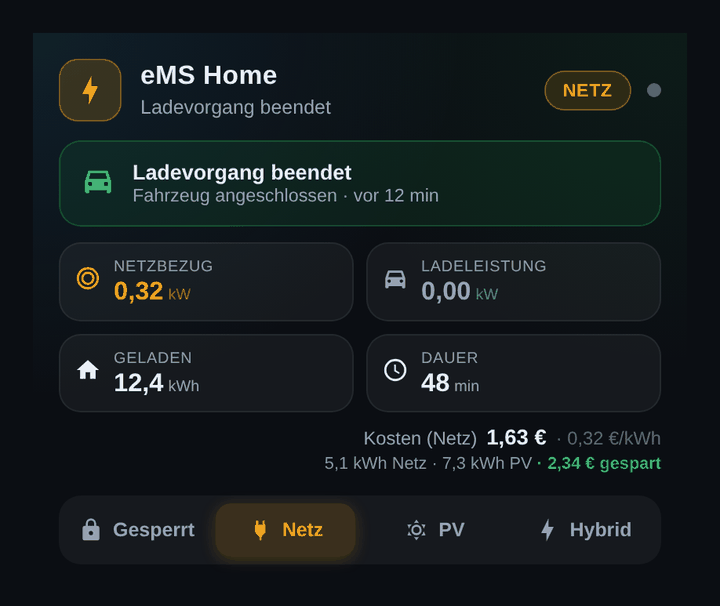
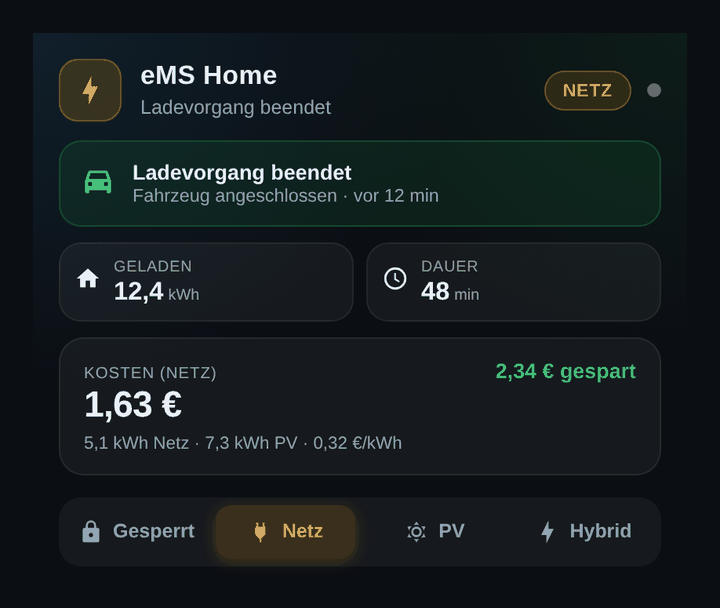
feat(card): result block instead of power tiles when a session is finished
A finished session showed '0,00 kW charging power' and the house's grid import –
neither says anything about the charge that just ended.

- finished state: two tiles (energy, duration) plus a result block with the cost
  as the headline, the saving in green and the grid/PV split underneath
- README: gallery of all four states with screenshots and captions, cost model
  per charge mode, configuration section split out
- 4 more browser checks (result cost, saving, split line)

diff --git a/custom_components/ems_home/frontend/ems-home-card.js b/custom_components/ems_home/frontend/ems-home-card.js
@@ -358,6 +358,22 @@ class EmsHomeCard extends HTMLElement {
           ${
             locked
               ? ""
+              : finished
+              ? `<div class="stats">
+            ${this._statTile({
+              icon: ICONS.home,
+              label: this._t("energy"),
+              unit: "kWh",
+              valueBind: "tile-energy",
+            })}
+            ${this._statTile({
+              icon: ICONS.timer,
+              label: this._t("duration"),
+              unit: "min",
+              valueBind: "tile-duration",
+            })}
+          </div>
+          ${showCost ? this._resultTemplate(price) : ""}`
               : `<div class="stats">
             ${this._statTile({
               icon: ICONS.meter,
@@ -424,6 +440,20 @@ class EmsHomeCard extends HTMLElement {
           <b>${this._t("finished")}</b>
           <span>${this._t("plugged")}<em data-bind="ended">&nbsp;</em></span>
         </div>
+      </div>`;
+  }
+
+  _resultTemplate(price) {
+    return `
+      <div class="result">
+        <div class="result-row">
+          <div class="result-main">
+            <span class="result-label" data-bind="res-label">${this._t("cost")}</span>
+            <b data-bind="res-cost">–</b>
+          </div>
+          <span class="result-saved" data-bind="res-saved"></span>
+        </div>
+        <div class="result-split" data-bind="res-split"></div>
       </div>`;
   }
 
@@ -560,24 +590,26 @@ class EmsHomeCard extends HTMLElement {
       const pvPrice = Number.parseFloat(this._config.pv_price);
       const pvRate = Number.isFinite(pvPrice) ? pvPrice : 0;
 
-      const cost = splitKnown
-        ? gridKwh * price + pvKwh * pvRate
-        : num(st[e.session_energy]) * price;
-      setText("cost", this._fmt(cost, 2) + " €");
+      const total = splitKnown ? gridKwh + pvKwh : num(st[e.session_energy]);
+      const cost = splitKnown ? gridKwh * price + pvKwh * pvRate : total * price;
+      const saved = splitKnown ? pvKwh * Math.max(price - pvRate, 0) : 0;
+      const mostlyPv = splitKnown && pvKwh > 0.05;
+      const label = mostlyPv ? this._t("cost_grid") : this._t("cost");
+      const split = splitKnown
+        ? `${this._fmt(gridKwh, 1)} kWh ${this._t("grid")} · ${this._fmt(pvKwh, 1)} kWh ${this._t("pv")}`
+        : "";
 
-      if (splitKnown) {
-        const mostlyPv = pvKwh > 0.05;
-        setText("cost-label", mostlyPv ? this._t("cost_grid") : this._t("cost"));
-        setText(
-          "split",
-          `${this._fmt(gridKwh, 1)} kWh ${this._t("grid")} · ${this._fmt(pvKwh, 1)} kWh ${this._t("pv")}`
-        );
-        // What the roof saved: PV energy that would otherwise have been bought.
-        const saved = pvKwh * Math.max(price - pvRate, 0);
-        setText(
-          "saved",
-          saved >= 0.01 ? ` · ${this._fmt(saved, 2)} € ${this._t("saved")}` : ""
-        );
+      if (q("res-cost")) {
+        // finished session – costs are the headline
+        setText("res-label", label);
+        setText("res-cost", this._fmt(cost, 2) + " €");
+        setText("res-saved", saved >= 0.01 ? `${this._fmt(saved, 2)} € ${this._t("saved")}` : "");
+        setText("res-split", [split, `${this._fmt(price, 2)} €/kWh`].filter(Boolean).join(" · "));
+      } else {
+        setText("cost-label", label);
+        setText("cost", this._fmt(cost, 2) + " €");
+        setText("split", split);
+        setText("saved", saved >= 0.01 ? ` · ${this._fmt(saved, 2)} € ${this._t("saved")}` : "");
       }
     }
 
@@ -835,6 +867,20 @@ class EmsHomeCard extends HTMLElement {
         color: var(--secondary-text-color); opacity: .9;
       }
       .split .saved { color: #22c55e; font-weight: 600; }
+
+      .result {
+        margin-top: 10px; padding: 13px 15px; border-radius: 16px;
+        background: color-mix(in srgb, var(--primary-text-color) 5%, transparent);
+        border: 1px solid color-mix(in srgb, var(--primary-text-color) 8%, transparent);
+      }
+      .result-row { display: flex; align-items: baseline; justify-content: space-between; gap: 12px; }
+      .result-label {
+        display: block; font-size: .64rem; text-transform: uppercase; letter-spacing: .5px;
+        color: var(--secondary-text-color);
+      }
+      .result-main b { font-size: 1.45rem; font-weight: 700; letter-spacing: -.4px; color: var(--primary-text-color); }
+      .result-saved { font-size: .84rem; font-weight: 650; color: #22c55e; white-space: nowrap; }
+      .result-split { margin-top: 5px; font-size: .7rem; color: var(--secondary-text-color); }
       .glyph { transform-box: fill-box; }
       .tile {
         display: flex; align-items: center; gap: 8px; min-width: 0;

diff --git a/preview/selftest.html b/preview/selftest.html
@@ -119,9 +119,29 @@ customElements.whenDefined("ems-home-card").then(() => {
     "sensor.controlroom_ems_home_ladeenergie": S("12.4", {
       energy_from_grid_kwh: 5.1, energy_from_pv_kwh: 7.3 }),
   }}));
+  ended.setConfig({ type:"custom:ems-home-card", title:"eMS Home", price:0.30 });
+  ended.hass = makeHass({ over:{
+    "sensor.ems_home_ev_charging_power": S("0"),
+    "sensor.ems_home_ev_charging_state": S("idle", {}, endedAt),
+    "sensor.ems_home_wallbox_status": S("finishing"),
+    "sensor.controlroom_ems_home_ladeenergie": S("12.4", {
+      energy_from_grid_kwh: 5.1, energy_from_pv_kwh: 7.3 }),
+  }});
   check("finished shows the summary banner", !!ended.shadowRoot.querySelector(".ended"));
   check("finished hides the flow", !ended.shadowRoot.querySelector(".flow"));
-  check("finished keeps the figures", !!ended.shadowRoot.querySelector(".stats"));
+  check("finished keeps energy + duration",
+        ended.shadowRoot.querySelectorAll(".stats .tile").length === 2,
+        ended.shadowRoot.querySelectorAll(".stats .tile").length);
+  check("finished drops the power tiles",
+        !ended.shadowRoot.querySelector('[data-bind="tile-power"]') &&
+        !ended.shadowRoot.querySelector('[data-bind="tile-grid"]'));
+  check("finished shows the result block", !!ended.shadowRoot.querySelector(".result"));
+  const resCost = ended.shadowRoot.querySelector('[data-bind="res-cost"]').textContent.trim();
+  check("result cost = grid share * price (5.1 * 0,30)", resCost === "1,53 €", resCost);
+  const resSaved = ended.shadowRoot.querySelector('[data-bind="res-saved"]').textContent.trim();
+  check("result shows the saving (7.3 * 0,30)", resSaved === "2,19 € gespart", resSaved);
+  const resSplit = ended.shadowRoot.querySelector('[data-bind="res-split"]').textContent.trim();
+  check("result split line", resSplit === "5,1 kWh Netz · 7,3 kWh PV · 0,30 €/kWh", resSplit);
   check("status label says finished",
         ended.shadowRoot.querySelector('[data-bind="sub"]').textContent.trim().startsWith("Ladevorgang beendet"),
         ended.shadowRoot.querySelector('[data-bind="sub"]').textContent.trim());

diff --git a/preview/shot.html b/preview/shot.html
@@ -46,13 +46,15 @@ const theme = params.get("theme") === "light" ? "light" : "dark";
 const mode  = params.get("mode") || "hybrid";
 document.body.className = theme;
 
-const finished = new URLSearchParams(location.search).get("state") === "finished";
+const stateParam = new URLSearchParams(location.search).get("state") || "charging";
+const finished = stateParam === "finished";
+const idle = stateParam === "idle";
 const ago = new Date(Date.now() - 12*60000).toISOString();
 const states = {
   "sensor.ems_home_grid_power": S(finished ? "0.320" : "2.310"),
-  "sensor.ems_home_ev_charging_power": S(finished ? "0" : "3.466"),
-  "sensor.ems_home_ev_charging_state": finished ? S("idle", {}, ago) : S("charging"),
-  "sensor.ems_home_wallbox_status": S(finished ? "finishing" : "charging"),
+  "sensor.ems_home_ev_charging_power": S(finished || idle ? "0" : "3.466"),
+  "sensor.ems_home_ev_charging_state": S(finished || idle ? "idle" : "charging", {}, finished ? ago : undefined),
+  "sensor.ems_home_wallbox_status": S(finished ? "finishing" : idle ? "available" : "charging"),
   "sensor.ems_home_charge_mode": S(mode),
   "select.ems_home_charge_mode": S(mode, { options:["lock","grid","pv","hybrid"] }),
   "number.ems_home_min_pv_power_quota": S("70", { min:0, max:100, step:10 }),

diff --git a/README.md b/README.md
@@ -53,27 +53,46 @@ is rejected). The live streams can be disabled in the options for troubleshootin
 ## The card
 
 <p align="center">
-  <img src="assets/card-hybrid.png" width="330" alt="eMS Home card – hybrid mode, charging from PV and grid">
-  <img src="assets/card-light.png" width="330" alt="eMS Home card in the light theme – PV mode">
+  <img src="assets/card-hybrid.png" width="300" alt="eMS Home card – hybrid mode, charging from PV and grid">
+  <img src="assets/card-pv.png" width="300" alt="eMS Home card – PV mode, light theme">
 </p>
 
-<p align="center"><em>Hybrid and PV mode, dark and light: the flow shows where the
-energy comes from and where it goes, the figures show what it is doing right now.</em></p>
+<p align="center"><em>Charging in hybrid mode (dark) and in PV mode (light): the flow
+shows where the energy comes from, the figures show what it is doing right now.</em></p>
 
-<p align="center">
-  <img src="assets/card-finished.png" width="330" alt="eMS Home card – charging finished, car still connected">
-</p>
-
-<p align="center"><em>Charging finished but the car is still plugged in: the animation
-gives way to a summary of the cycle – energy, duration, cost and what the roof saved.</em></p>
-
-The integration ships `custom:ems-home-card` and registers it automatically -
+The integration ships `custom:ems-home-card` and registers it automatically –
 after installing or updating there is nothing to add to your dashboard resources.
 
-- **The flow at a glance** – roof and grid on the left, wallbox in the middle, car on the right. The dots speed up with the power, and they turn around when you are feeding into the grid.
-- **Only what matters** – grid import refreshes every 5 s and charging power stays live; energy and duration are counted per charging cycle, and the cost uses the grid share of that cycle, not the whole amount.
-- **Control where you look** – Grid / PV / Hybrid / Lock buttons and the PV quota slider, which appears in hybrid mode where it actually applies.
-- **Quiet when nothing happens** – a locked wallbox hides the animation and the figures instead of showing zeros, and a finished session that is still plugged in gets a summary with the result of the cycle.
+- **The flow at a glance** – roof and grid on the left, wallbox in the middle, car on the right. The dots speed up with the power and reverse when you feed into the grid.
+- **Live where it matters** – grid import refreshes every 5 s so the card stays calm, charging power is live.
+- **Per cycle, not per day** – energy and duration belong to the current charging session and start over with the next one.
+- **Control included** – Grid / PV / Hybrid / Lock plus the PV quota slider, which appears in hybrid mode where it applies.
+- **Quiet when nothing happens** – locked and finished states show no animation and no meaningless zeros.
+
+### The four states
+
+<table>
+  <tr>
+    <td align="center" valign="top" width="33%">
+      <img src="assets/card-finished.png" width="250" alt="Charging finished, car still connected"><br>
+      <sub><b>Finished</b><br>The car is still plugged in but draws nothing: the
+      animation gives way to the result – energy, duration, what the grid energy
+      cost and what the roof saved.</sub>
+    </td>
+    <td align="center" valign="top" width="33%">
+      <img src="assets/card-locked.png" width="250" alt="Locked"><br>
+      <sub><b>Locked</b><br>Nothing flows and nothing is worth showing, so only the
+      header and the mode switch remain.</sub>
+    </td>
+    <td align="center" valign="top" width="33%">
+      <img src="assets/card-idle.png" width="250" alt="Idle, no car connected"><br>
+      <sub><b>Idle</b><br>The wallbox is ready and no car is connected – the flow
+      still shows what the house is doing.</sub>
+    </td>
+  </tr>
+</table>
+
+### Configuration
 
 ```yaml
 type: custom:ems-home-card
@@ -100,12 +119,13 @@ entities:
   pv_power: sensor.solar_roof_power        # optional, external PV sensor
 ```
 
+### Cost per charge mode
+
 The cost line prices **grid energy only**: during each cycle the integration
 records how much of the charging power came from the meter and how much from the
-roof, and shows the split under the total (`5,1 kWh Netz · 7,3 kWh PV ·
-2,34 € gespart`). Set `pv_price` if you want to value your own solar energy as
-well – feed-in tariff or opportunity cost. Without it, PV energy counts as free
-and the second figure is what the roof saved you:
+roof (`5,1 kWh Netz · 7,3 kWh PV`). Set `pv_price` if you want to value your own
+solar energy too – feed-in tariff or opportunity cost. Without it, PV energy
+counts as free and the second figure is what the roof saved you:
 
 | Charge mode | Cost of the cycle | Shown saving |
 |---|---|---|
@@ -116,7 +136,8 @@ and the second figure is what the roof saved you:
 
 The split is measured, not assumed: while the car charges, whatever the meter
 reports as import is attributed to the car first (capped at its own draw), the
-rest counts as solar.
+rest counts as solar. It is an estimate – the house draws from the same meter –
+and the session-energy sensor says so with `split_estimated: true`.
 
 The card is fully theme-aware (light/dark), ships a GUI editor and needs no
 external frontend dependency (no Mushroom, no card-mod).
